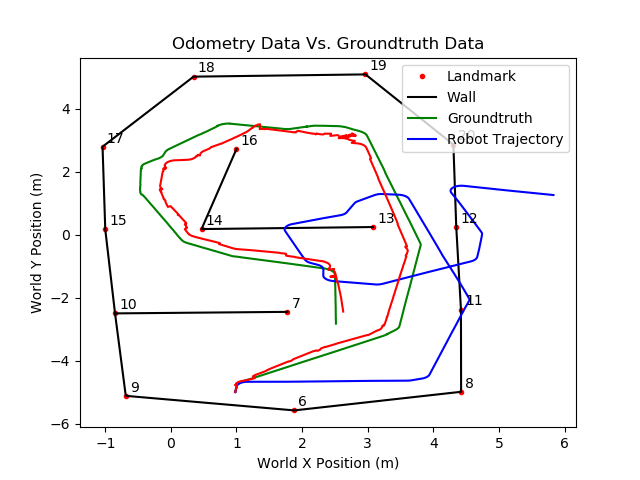
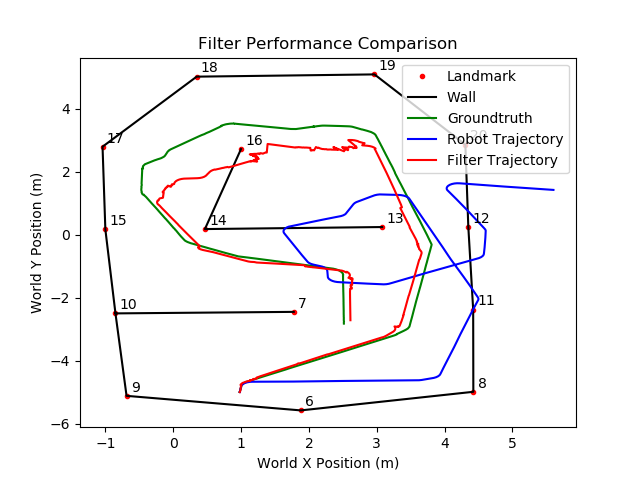
updated pics, changed plot creation

diff --git a/HW0/robot_library.py b/HW0/robot_library.py
@@ -81,6 +81,11 @@ class Robot:
 
         self.found_measurements = []
 
+        self.part_a2_path = []
+        self.part_a3_path = []
+        self.part_b7_path = []
+        self.groundtruth_path = []
+
         self.generate_particle_set()
         self.change_measurement_subject()
 
@@ -302,7 +307,6 @@ class Robot:
 
         #create Robot Object
         self.set_initial_pos([0, 0, 0])
-        plt.figure()
 
         #Part A2 Data Set
         movement_data = [[0.5, 0, 1], [0, -1/(2*np.pi), 1], [.5, 0, 1],
@@ -317,15 +321,7 @@ class Robot:
 
             self.append_path()
 
-        #Plot Data
-        x_arr, y_arr, _t_arr = map(list, zip(*self.motion_path))
-
-        plt.plot(x_arr, y_arr, 'b')
-
-        plt.title('Part A.2 Results')
-        plt.xlabel('Robot X Position (m)')
-        plt.ylabel('Robot Y Position (m)')
-        plt.legend(['Robot Trajectory'])
+        self.part_a2_path = self.motion_path[:]
 
     def part_a6(self):
         """Part A6 Routine"""
@@ -349,7 +345,7 @@ class Robot:
             self.new_pos = robot_locs[i]
 
             # calculate measurement
-            results = self.read_sensor(item, robot_locs[i], 1)
+            results = self.read_sensor(item, robot_locs[i], 0)
 
             # convert measurement to global domain
             global_results[i] = [self.new_pos[0] + np.cos(results[1]) * results[0],
@@ -373,21 +369,6 @@ class Robot:
         self.set_initial_pos([self.groundtruth_data[0][1], self.groundtruth_data[0][2],
                               self.groundtruth_data[0][3]])
 
-        plt.figure()
-
-    # plot Landmarks and Walls
-        plot_map(self.marker_data)
-
-    # Plot Groundtruth Data
-        gt_timestamp, ground_x, ground_y, _ground_t = map(list, zip(*self.groundtruth_data))
-
-        # ground_x = ground_x[0:20000]
-        # ground_y = ground_y[0:20000]
-
-        #plt.plot(ground_x[0], ground_y[0], 'kd', markersize=3, label='_nolegend_')
-        plt.plot(ground_x, ground_y, 'g')
-        #plt.plot(ground_x[-1], ground_y[-1], 'ko', markersize=3, label='_nolegend_')
-
     # Plot Odometry Dataset
         for i, cur_action in enumerate(self.odom_data):
 
@@ -401,20 +382,7 @@ class Robot:
             self.cur_pos = self.new_pos
             self.append_path()
 
-    # Plot Odometry Data
-        x_arr, y_arr, _t_arr = map(list, zip(*self.motion_path))
-
-        # x_arr = x_arr[0:1700]
-        # y_arr = y_arr[0:1700]
-
-        plt.plot(x_arr, y_arr, 'b')
-
-        plt.legend(['Landmark', 'Wall', 'Groundtruth', 'Robot Trajectory'])
-        plt.xlabel('World X Position (m)')
-        plt.ylabel('World Y Position (m)')
-        plt.title('Odometry Data Vs. Groundtruth Data')
-
-        plt.autoscale(True)
+        self.part_a3_path = self.motion_path[:]
 
     def part_b7(self):
         """Apply particle filter to the data"""
@@ -429,8 +397,6 @@ class Robot:
         iter_thresh = len(self.odom_data) - 2
         delay_thresh = 0
         resample_delay = 0
-
-
 
         i = 0
         for i, vel_data in enumerate(self.odom_data):
@@ -549,12 +515,109 @@ class Robot:
 
             self.append_path()
 
-        x_arr, y_arr, _t_arr = map(list, zip(*self.motion_path))
+        self.part_b7_path = self.motion_path[:]
+
+    def create_plots(self):
+        """
+        Create Plots for Report
+        """
+        #part_a2
+        x_arr, y_arr, _t_arr = map(list, zip(*self.part_a2_path))
+
+        plt.figure()
+        plt.plot(x_arr, y_arr, 'b')
+
+        plt.title('Part A.2 Results')
+        plt.xlabel('Robot X Position (m)')
+        plt.ylabel('Robot Y Position (m)')
+        plt.legend(['Robot Trajectory'])
+        plt.autoscale(True)
+
+        #part 3a
+        plt.figure()
+
+        plot_map(self.marker_data)
+
+        _ig, ground_x, ground_y, _ground_t = map(list, zip(*self.groundtruth_data))
+
+        # ground_x = ground_x[0:20000]
+        # ground_y = ground_y[0:20000]
+
+        plt.plot(ground_x, ground_y, 'g')
+
+        x_arr, y_arr, _t_arr = map(list, zip(*self.part_a3_path))
+
+        plt.plot(x_arr, y_arr, 'b')
+
+        plt.legend(['Landmark', 'Wall', 'Groundtruth', 'Robot Trajectory'])
+        plt.xlabel('World X Position (m)')
+        plt.ylabel('World Y Position (m)')
+        plt.title('Odometry Data Vs. Groundtruth Data')
+        plt.autoscale(True)
+
+        #part 7b - trunc.
+
+        plt.figure()
+
+        plot_map(self.marker_data)
+
+        _ig, ground_x, ground_y, _ground_t = map(list, zip(*self.groundtruth_data))
+
+        ground_x = ground_x[0:20000]
+        ground_y = ground_y[0:20000]
+
+        plt.plot(ground_x, ground_y, 'g')
+
+        x_arr, y_arr, _t_arr = map(list, zip(*self.part_a3_path))
+
+        x_arr = x_arr[0:1700]
+        y_arr = y_arr[0:1700]
+
+        plt.plot(x_arr, y_arr, 'b')
+
+        x_arr, y_arr, _t_arr = map(list, zip(*self.part_b7_path))
+
+        x_arr = x_arr[1:1700]
+        y_arr = y_arr[1:1700]
 
         plt.plot(x_arr, y_arr, 'r')
-        plt.autoscale(True)
-        print total_measurements
 
-    def show_plots(self):
-        """Show all plots"""
+        plt.legend(['Landmark', 'Wall', 'Groundtruth', 'Robot Trajectory', 'Filter Trajectory'])
+        plt.xlabel('World X Position (m)')
+        plt.ylabel('World Y Position (m)')
+        plt.title('Filter Performance Comparison')
+        plt.autoscale(True)
+
+        #7b Full
+        plt.figure()
+
+        plot_map(self.marker_data)
+
+        _ig, ground_x, ground_y, _ground_t = map(list, zip(*self.groundtruth_data))
+
+        # ground_x = ground_x[0:20000]
+        # ground_y = ground_y[0:20000]
+
+        plt.plot(ground_x, ground_y, 'g')
+
+        x_arr, y_arr, _t_arr = map(list, zip(*self.part_a3_path))
+
+        # x_arr = x_arr[0:1700]
+        # y_arr = y_arr[0,1700]
+
+        plt.plot(x_arr, y_arr, 'b')
+
+        x_arr, y_arr, _t_arr = map(list, zip(*self.part_b7_path))
+
+        # x_arr = x_arr[1:1700]
+        # y_arr = y_arr[1:1700]
+
+        plt.plot(x_arr, y_arr, 'r')
+
+        plt.legend(['Landmark', 'Wall', 'Groundtruth', 'Robot Trajectory', 'Filter Trajectory'])
+        plt.xlabel('World X Position (m)')
+        plt.ylabel('World Y Position (m)')
+        plt.title('Filter Performance Comparison')
+        plt.autoscale(True)
+
         plt.show()

diff --git a/HW0/run_me.py b/HW0/run_me.py
@@ -9,8 +9,9 @@ def main():
     bot.part_a6()
     bot.part_a2()
     bot.part_a3()
-    #bot.part_b7()
+    bot.part_b7()
 
-    bot.show_plots()
+    bot.create_plots()
+
 
 main()
